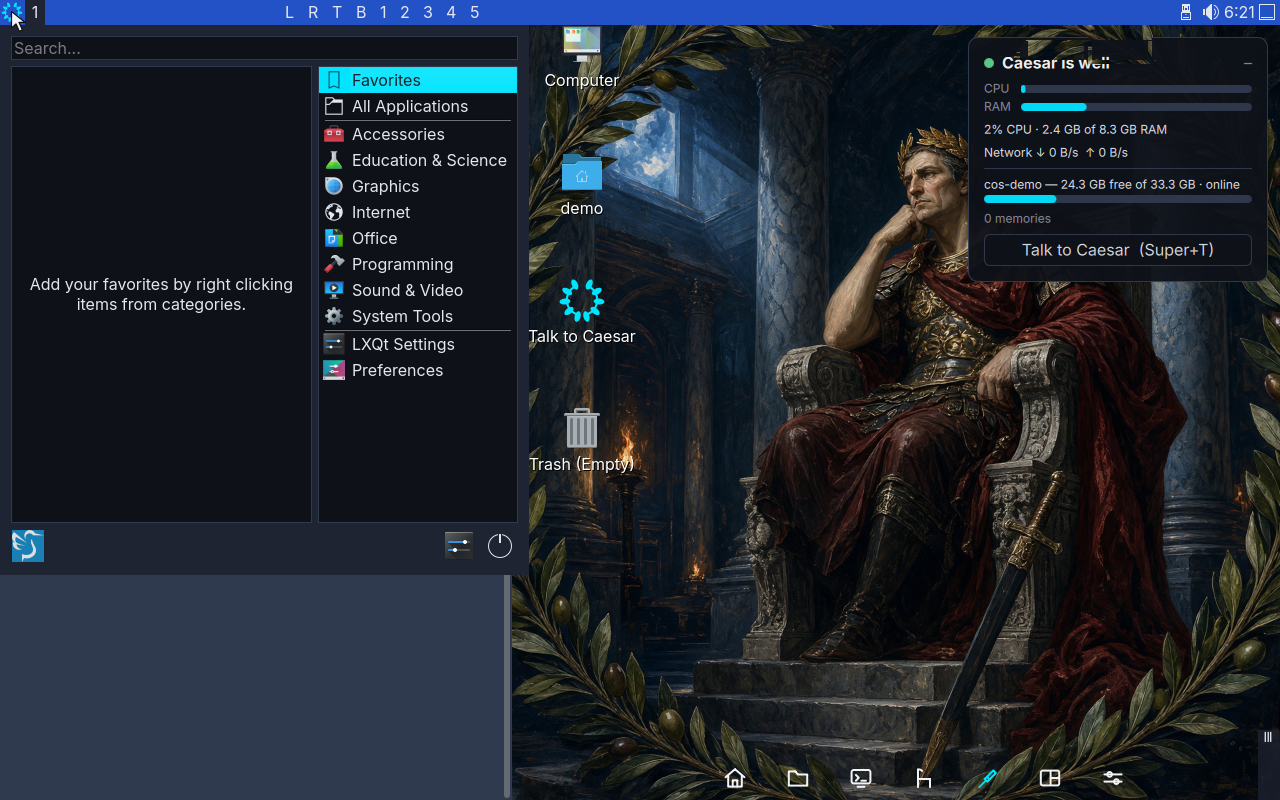
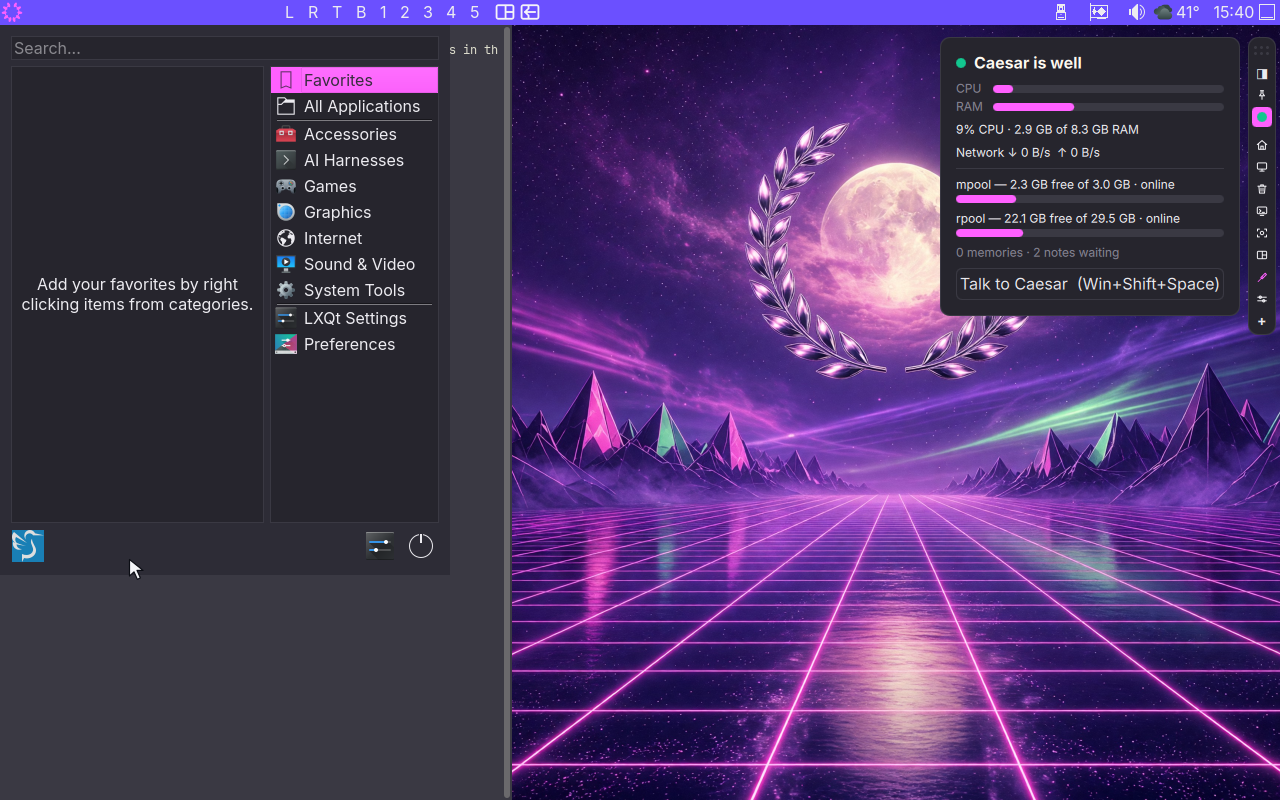
Caesar user guide: the menu pictured again, Known issues for 0.8.32
Claude-Session: https://claude.ai/code/session_01FiRHY4LV63tgouEeMRqh6q

diff --git a/public/caesar/manual/index.html b/public/caesar/manual/index.html
@@ -775,10 +775,11 @@
   <section>
     <div class="col stack">
       <h2>2.9 Settings</h2>
-      <p>Open your home folder and select <b>Applications</b> in the left column. Installed
-      programs are organized by category.</p>
+      <p>Open the menu at the left end of the bar, or open your home folder and select
+      <b>Applications</b> in the left column. Installed programs are organized by category. A
+      category with nothing in it is not shown.</p>
       <figure>
-        <img src="fig/22-apps.png" alt="The menu's categories: Favorites, All Applications, Accessories, Education &amp; Science, Graphics, Internet, Office, Programming, Sound &amp; Video, System Tools, LXQt Settings and Preferences">
+        <img src="fig/22-apps.png" alt="The menu's categories on a new installation: Favorites, All Applications, Accessories, AI Harnesses, Games, Graphics, Internet, Sound &amp; Video, System Tools, LXQt Settings and Preferences">
         <figcaption>Click a category to open it</figcaption>
       </figure>
       <p>The tools that manage the computer are all in <b>System Tools</b>. <b>Preferences</b> holds
@@ -2170,8 +2171,8 @@ setsid nohup env CAESAR_LFS=/mnt/lfs \
   <section>
     <div class="col stack">
       <h2>4.1 Issues you may encounter</h2>
-      <p>The following issues were observed on an installed system, not predicted. You are likely
-      to encounter them.</p>
+      <p>The following issues were observed on an installed system at Caesar 0.8.32, not predicted.
+      You are likely to encounter them.</p>
       <ul class="plain">
         <li><b>Keys must be entered manually</b> in a virtual machine. Copy and paste between host
           and guest is not yet supported, and a mistyped key is reported only as a rejection.</li>
@@ -2181,6 +2182,21 @@ setsid nohup env CAESAR_LFS=/mnt/lfs \
           not reach the password box, close the notice, then select the password box before
           typing. Characters you type may not appear until the screen is redrawn, although
           they are received.</li>
+        <li><b>NoMachine and the Super key.</b> The pool takes the keyboard when it starts, after
+          an update or a restart of the pool. If a NoMachine window showing another computer is in
+          front at that moment, the other computer can be left with the Super key held, and the
+          keys you type there act as shortcuts. The cause is found and the correction comes with
+          the next update.</li>
+        <li><b>The harnesses in the pool do not all do the same yet.</b> Claude Code and
+          Antigravity are the furthest along: their helpers pass the door and are named in the
+          record (2.5). Codex, Grok Build and OpenCode have no helpers that reach the door, and
+          Grok Build and OpenCode are not handed the agent's memory cues with each message. The
+          differences are being measured one harness at a time and closed.</li>
+        <li><b>Tiling has no workspaces.</b> Windows tile on the screen they are on (2.22); there
+          are no numbered workspaces to send a window to yet.</li>
+        <li><b>An old Antigravity conversation is not taken up</b> after an update changes the
+          tools its agent is offered (2.11). The pool says so and begins a new conversation; the
+          old one can still be read in Conversations.</li>
       </ul>
     </div>
   </section>
@@ -2196,6 +2212,9 @@ setsid nohup env CAESAR_LFS=/mnt/lfs \
           the right. Maximise the window to reach them.</li>
         <li>Task Scheduler cuts long job names short in its list; select a job to see its full
           name.</li>
+        <li>In the Antigravity seat, the lines that separate the turns are narrower than the pool,
+          and a long list of tools is cut to its first few names. Both are drawn by Antigravity
+          itself.</li>
       </ul>
     </div>
   </section>
@@ -2211,6 +2230,10 @@ setsid nohup env CAESAR_LFS=/mnt/lfs \
           for AI providers in one file, the local model server's key and each sign-in token in a
           file of its own, and the other keys in the secrets manager (2.24). No single component
           reads all of them. They are being consolidated into a single store.</li>
+        <li>The door's record names a harness's helper by what the harness says of it (2.5).
+          Claude Code gives a helper's kind and its id, not which helper started another. An
+          action that a capability hands to a program of its own, such as an update, is recorded
+          by that program without the helper's name.</li>
       </ul>
     </div>
   </section>
